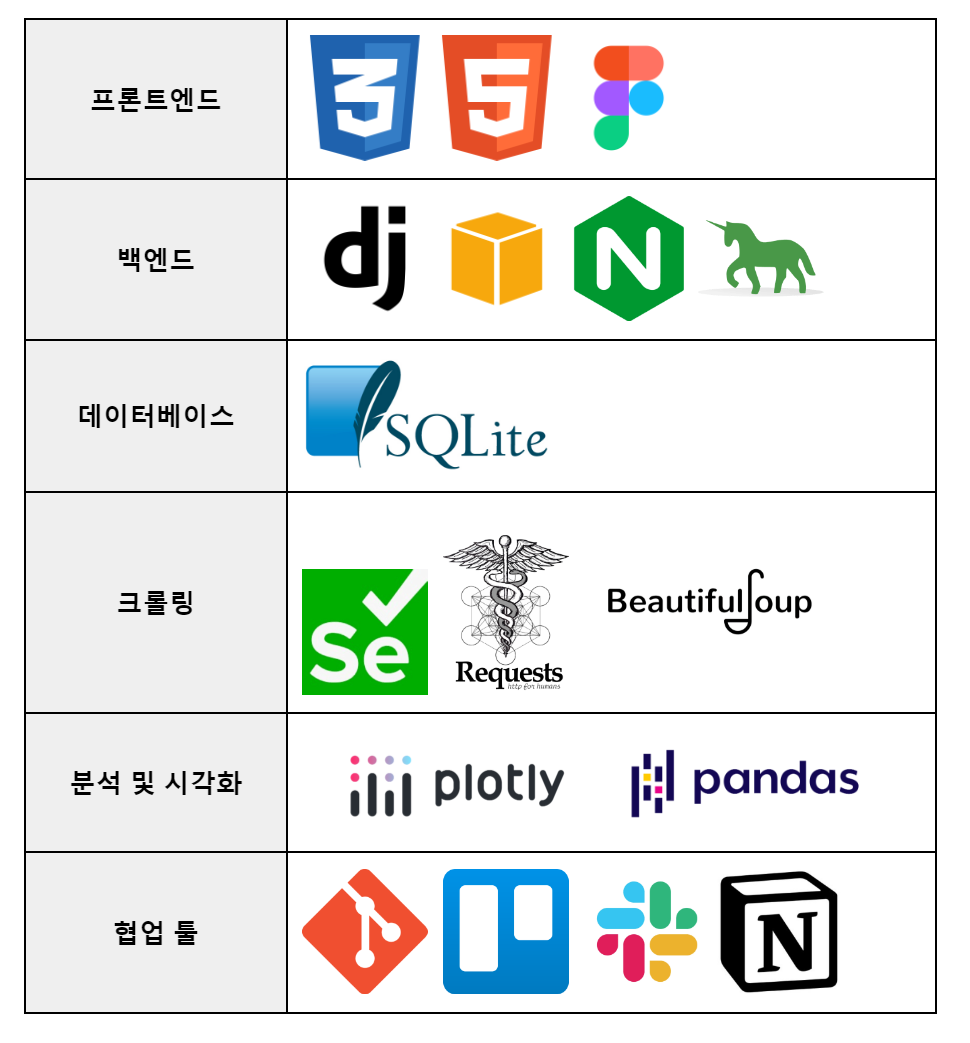
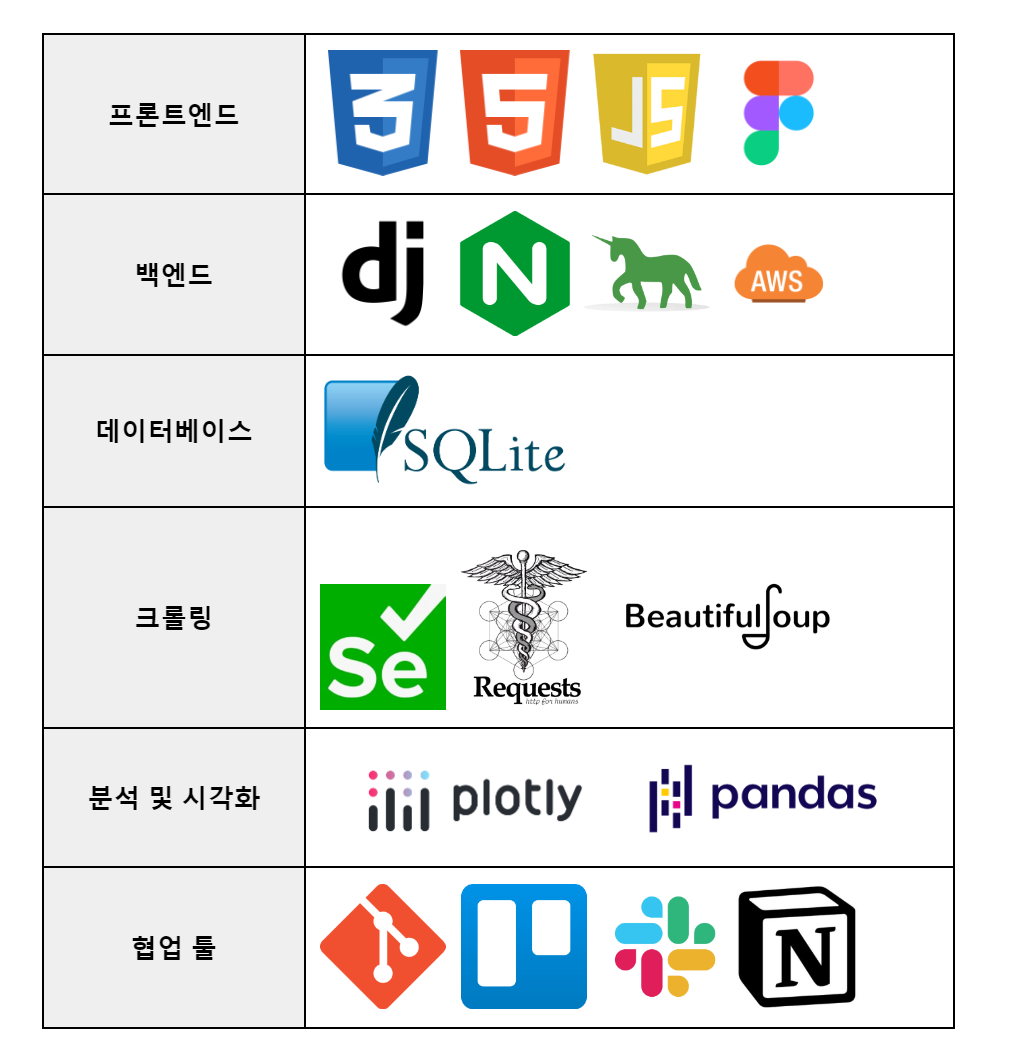
README.md 이미지 수정

diff --git a/README.md b/README.md
@@ -64,7 +64,7 @@
 <br>
 
 ## 활용 기술 및 프레임워크
-![Alt text](/images/framework.png)
+![Alt text](image.png)
 
 <br>
 
